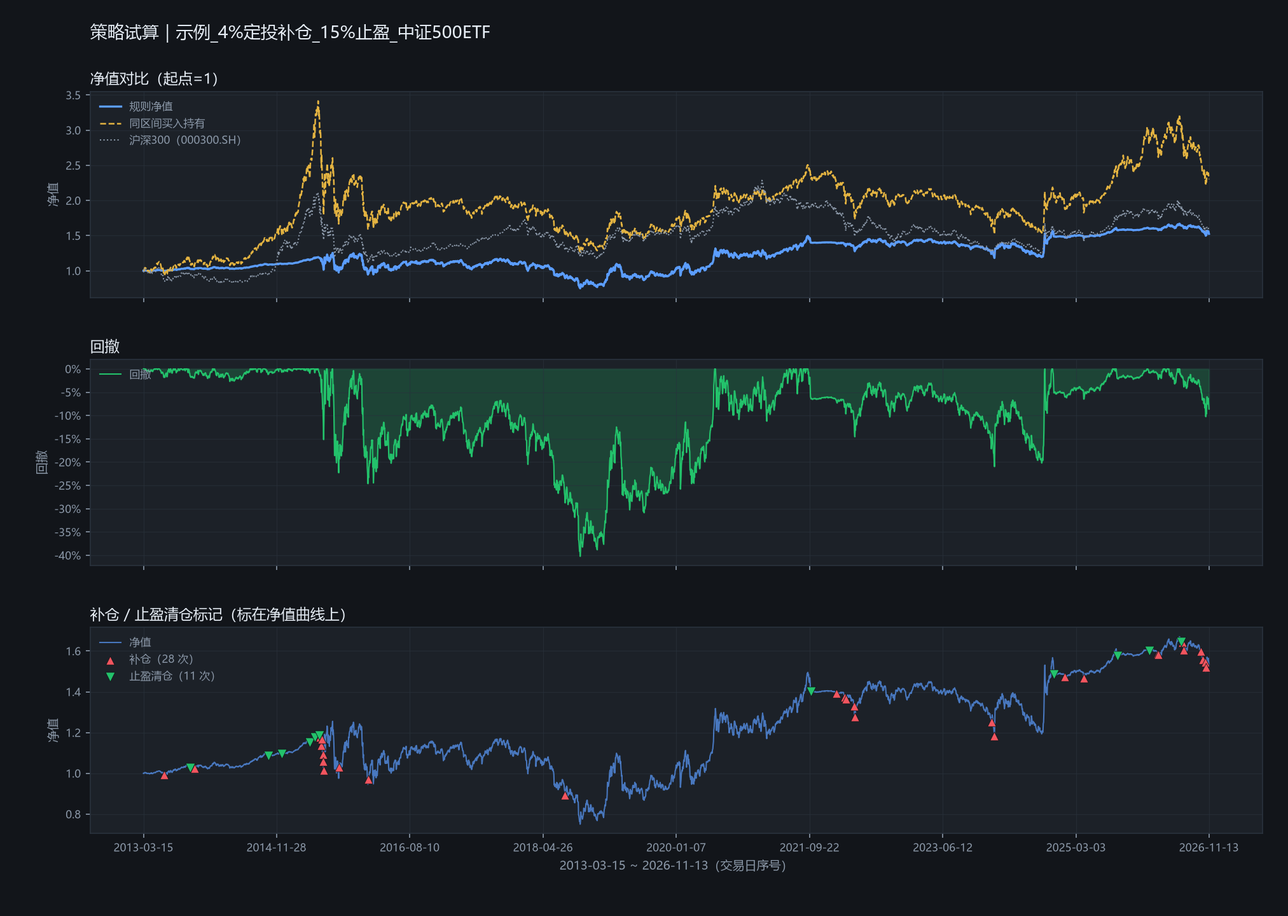
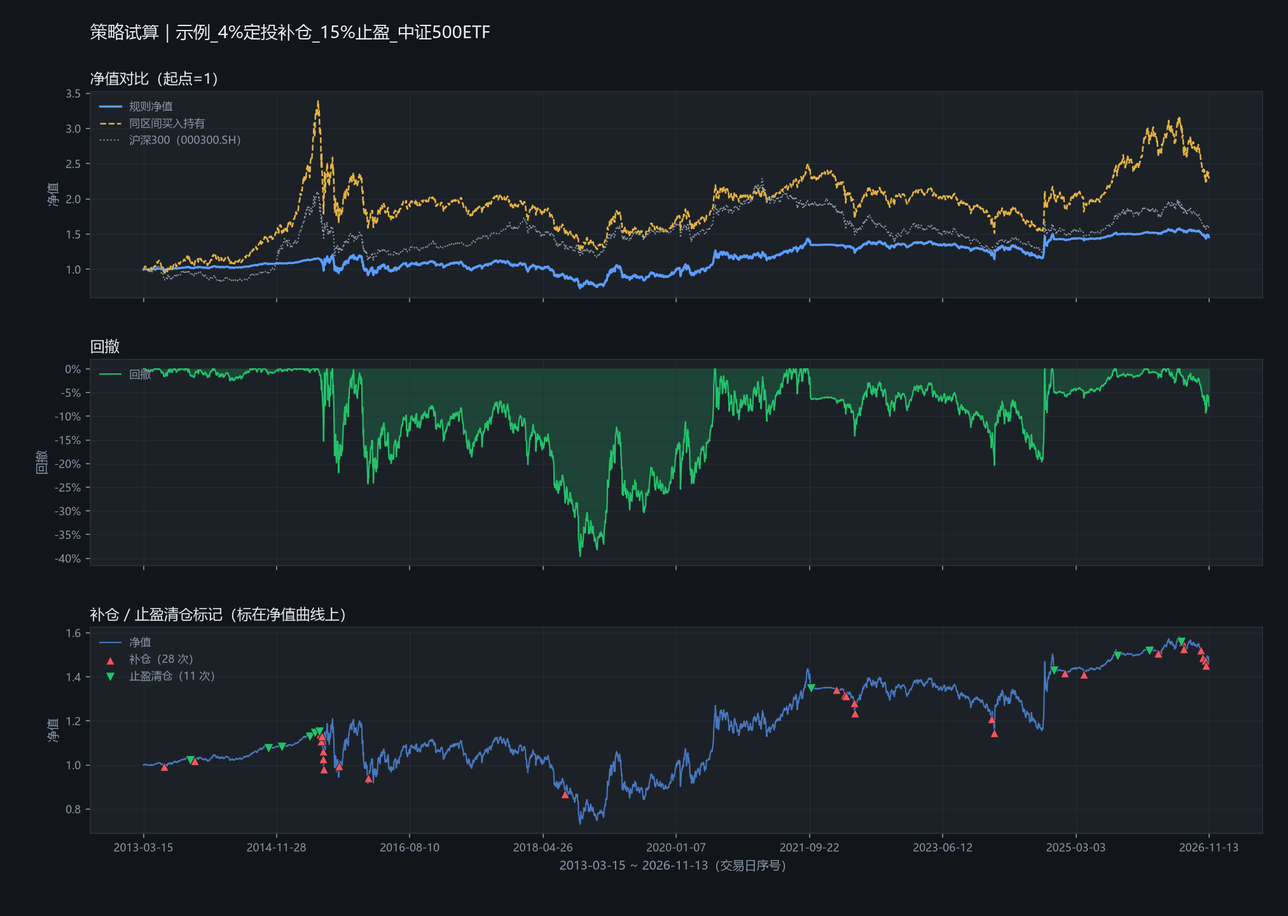
chore(backup): 2026-11-17，同步策略试算四类规则统一前复权口径与基线对比文档 fix(strategy_lab): 2026-11-17，compute 增加 qfq 取数参数并删除后复权旧分支 fix(strategy_lab): 2026-11-17，_normalize 只输出前复权价、四类规则关闭除权账本 docs(strategy_lab): 2026-11-17，补复权口径说明、改前改后基线并排表与 65.6% 基金限制 test(strategy_lab): 2026-11-17，修正成交价与分红覆盖用例并重跑回测图

diff --git a/src/quant/strategy_lab/backtest.py b/src/quant/strategy_lab/backtest.py
@@ -21,7 +21,7 @@ from loguru import logger
 from src.backtest.performance.benchmark_eval import information_ratio
 from src.backtest.performance.performance_analyzer import PerformanceAnalyzer
 from src.backtest.runner import compute, pipeline
-from src.core.usecases.run_backtest import _load_local_dividends, _load_st_status
+from src.core.usecases.run_backtest import _load_st_status
 
 from .coverage import dividend_coverage
 from .panels import FieldPanels
@@ -362,7 +362,7 @@ def _run_stock_select(rule: Dict[str, Any], t0: float) -> Dict[str, Any]:
         'warmup_start': (date.fromisoformat(rule['period']['start'])
                          - timedelta(days=WARMUP_DAYS)).isoformat(),
     }
-    data = compute.load_universe(period, rule['universe'])
+    data = compute.load_universe(period, rule['universe'], adjustment='qfq')
     data, violations = compute.drop_contract_violations(data)
     if not data:
         return _empty('行情为空：契约预筛后没有可用标的', rule)
@@ -386,7 +386,9 @@ def _run_stock_select(rule: Dict[str, Any], t0: float) -> Dict[str, Any]:
 
     schedules = pipeline.build_schedules(path, prev_day,
                                          rule['portfolio']['cash_buffer'])
-    dividends = _load_local_dividends(list(data), None, None)
+    # 统一前复权口径（见 switch_timing._normalize）：行情已是前复权价，分红与送转
+    # 已内含在价格里，再记一遍除权事件等于重复计入，故四类规则一律不传分红账本。
+    dividends = None
     engine_spec = {'_resolved': {'portfolio': rule['portfolio'], 'cost': rule['cost']}}
     result, used, engine_seconds = pipeline.run_engine(
         data, schedules, engine_spec, dividends, st_status)
@@ -416,24 +418,6 @@ def _run_stock_select(rule: Dict[str, Any], t0: float) -> Dict[str, Any]:
     return payload
 
 
-def _engine_dividends(codes: List[str]) -> Dict[str, Any]:
-    """本地分红快照 → 引擎事件；基金分红的表结构不同，缺复权修正列时跳过。
-
-    ``fund_dividend.parquet`` 只有现金分红、没有 ``cash_div_fix`` /
-    ``share_div_fix`` / ``no_ex_rights`` 三列修正；ETF 分红是否纳入复权在
-    ``clean_set`` 里仍是 ``pending_fund_dividend`` 未结论。这里不补任何默认值，
-    缺列即跳过并告警，避免把未修正的基金分红当成个股送转记账。
-    """
-    required = {'cash_div_fix', 'share_div_fix', 'no_ex_rights'}
-    frames = _load_local_dividends(codes, None, None)
-    usable = {code: frame for code, frame in frames.items()
-              if required <= set(frame.columns)}
-    skipped = sorted(set(frames) - set(usable))
-    if skipped:
-        logger.warning('分红快照缺复权修正列，本次不记账除权事件：{}', skipped)
-    return usable
-
-
 def _run_scheduled(rule: Dict[str, Any], t0: float) -> Dict[str, Any]:
     try:
         plan = build_plan(rule)
@@ -446,23 +430,11 @@ def _run_scheduled(rule: Dict[str, Any], t0: float) -> Dict[str, Any]:
               - timedelta(days=WARMUP_DAYS)).isoformat()
     st_status = _load_st_status(None, plan.data, None, warmup,
                                 rule['period']['end'], None, None)
-    dividends = _engine_dividends(list(plan.data))
+    # 统一前复权口径：行情只有前复权价（见 switch_timing._normalize），撮合与盯市
+    # 都在前复权价空间；分红/送转已内含在价格里，不再单独记账除权事件。
+    dividends = None
     engine_spec = {'_resolved': {'portfolio': rule['portfolio'], 'cost': rule['cost']}}
-    # 基金行情里有的腿复权因子恒为 1.0，复权价与原始价逐值相同；成对传进引擎会被
-    # 契约判成「拿未复权价冒充复权价」。这类腿直接去掉 raw_* 对，让 auto 按原始价
-    # 处理（价格本身没有信息损失，也不补任何复权因子）。
-    engine_data: Dict[str, Any] = {}
-    for code, frame in plan.data.items():
-        pair = {'open', 'raw_open', 'close', 'raw_close'}
-        same_as_raw = pair <= set(frame.columns) and \
-            bool((frame['open'] == frame['raw_open']).all()) and \
-            bool((frame['close'] == frame['raw_close']).all())
-        if same_as_raw or rule['rule_type'] == 'dca_grid':
-            # 定投口径整体在复权价空间内成交与盯市：基金行情只有 qfq_factor，
-            # 把原始价交给引擎会让份额折算日（如 510500.SH 2022-08-29）的
-            # 盯市出现跳空，且基金不走 corporate_actions 补偿。
-            frame = frame.drop(['raw_open', 'raw_close'])
-        engine_data[code] = frame
+    engine_data = plan.data
     result, used, engine_seconds = pipeline.run_engine(
         engine_data, plan.schedules, engine_spec, dividends, st_status)
 

diff --git a/src/quant/strategy_lab/switch_timing.py b/src/quant/strategy_lab/switch_timing.py
@@ -59,16 +59,28 @@ def _quote_path(code: str) -> Path:
         f'根目录 {QUOTE_ROOT}）')
 
 
-def _normalize(frame: pl.DataFrame, prefer_qfq: bool = False) -> pl.DataFrame:
-    """复权价 + 原始价成对输出，口径与 ``src/advice/data.py`` 一致。
+def _normalize(frame: pl.DataFrame) -> pl.DataFrame:
+    """前复权价 + 原始价：四类规则统一按前复权价回测（唯一路径）。
 
-    ``prefer_qfq=True`` 时优先用 ``qfq_factor``（前复权）：基金行情只落了
-    ``qfq_factor``，没有 ``hfq_factor``；直接按原始价回测会把 ETF 分红与份额
-    折算整段漏掉（510500.SH 在 2022-08-29 有一次未复权的价格跳空）。
+    复权口径（唯一实现，不另造第二套换算）：
+
+    - 换算：``复权价 = 原始价 × qfq_factor``，与 ``src/advice/data.py`` 的
+      「原始价 × 因子」取数约定一致，从本地行情 parquet 的 ``qfq_factor`` 列取
+      因子；该列缺失时才退回 ``hfq_factor``，两者都没有则整列按 1.0 处理；
+      因子为空值同样按 1.0（不插值、不猜）。
+    - 基准日：前复权因子按「行 t 的因子 = ∏{f_e | 除权日 e > t}」定义
+      （见 ``src/data/adj_factor_calculator.py``），即最新交易日的因子为 1.0、
+      价格不缩放，历史价按其后发生的分红与送转等比下调。因此基准日就是行情里
+      的最后一个交易日，复权序列随数据更新会整体平移，回测内部始终自洽。
+    - 执行口径：只输出前复权价，不再附带 ``raw_open`` / ``raw_close``。撮合与
+      盯市因此落在前复权价空间，除权账本保持关闭（分红/送转已内含在价格里，
+      再记一遍即重复计入）；四类规则共用这一条路径，没有旧分支。
+    - 已知限制：本地约 65.6% 的基金复权因子恒为 1（无分红/折算记录），这类标的
+      走前复权等于没复权，收益仍可能低估；这条限制没有修复，只做如实标注。
     """
     frame = frame.with_columns(pl.col('date').cast(pl.Date, strict=False))
     factor: str | None = None
-    for column in ('hfq_factor',) + (('qfq_factor',) if prefer_qfq else ()):
+    for column in ('qfq_factor', 'hfq_factor'):
         if column in frame.columns:
             factor = column
             break
@@ -85,8 +97,6 @@ def _normalize(frame: pl.DataFrame, prefer_qfq: bool = False) -> pl.DataFrame:
         (pl.col('low') * pl.col('adj_factor')).alias('low'),
         (pl.col('close') * pl.col('adj_factor')).alias('close'),
         pl.col('volume').cast(pl.Float64, strict=False).alias('volume'),
-        pl.col('open').cast(pl.Float64, strict=False).alias('raw_open'),
-        pl.col('close').cast(pl.Float64, strict=False).alias('raw_close'),
     ]
     if 'amount' in frame.columns:
         columns.append(pl.col('amount').cast(pl.Float64, strict=False).alias('amount'))
@@ -95,14 +105,13 @@ def _normalize(frame: pl.DataFrame, prefer_qfq: bool = False) -> pl.DataFrame:
             .sort('date').unique('date', keep='last'))
 
 
-def load_leg(code: str, start: date, end: date,
-             prefer_qfq: bool = False) -> pl.DataFrame:
+def load_leg(code: str, start: date, end: date) -> pl.DataFrame:
     path = _quote_path(code)
     raw = pl.read_parquet(path)
     missing = sorted({'date', 'open', 'high', 'low', 'close', 'volume'} - set(raw.columns))
     if missing:
         raise PlanError(f'标的 {code} 行情缺必需列 {missing}（{path}）')
-    frame = _normalize(raw, prefer_qfq=prefer_qfq).filter(
+    frame = _normalize(raw).filter(
         (pl.col('date') >= start) & (pl.col('date') <= end))
     if frame.height < 2:
         raise PlanError(
@@ -110,10 +119,8 @@ def load_leg(code: str, start: date, end: date,
     return frame
 
 
-def load_legs(codes: Iterable[str], start: date, end: date,
-              prefer_qfq: bool = False) -> Dict[str, pl.DataFrame]:
-    data = {code: load_leg(code, start, end, prefer_qfq=prefer_qfq)
-            for code in dict.fromkeys(codes)}
+def load_legs(codes: Iterable[str], start: date, end: date) -> Dict[str, pl.DataFrame]:
+    data = {code: load_leg(code, start, end) for code in dict.fromkeys(codes)}
     dates = [set(df['date'].to_list()) for df in data.values()]
     common = sorted(set.intersection(*dates))
     if len(common) < 2:
@@ -404,7 +411,7 @@ def build_dca_plan(rule: Dict[str, Any]) -> Plan:
     warmup = start - timedelta(days=WARMUP_DAYS)
     target = rule['target']
     code = target['code']
-    data = load_legs([code], warmup, end, prefer_qfq=True)
+    data = load_legs([code], warmup, end)
     frame = data[code]
     days = frame['date'].to_list()
     closes = [float(c) for c in frame['close'].to_list()]

diff --git a/tests/test_strategy_lab_switch.py b/tests/test_strategy_lab_switch.py
@@ -30,8 +30,8 @@ def _weekdays(count: int) -> list[date]:
 
 
 def _frame(days: list[date], opens: list[float]) -> pl.DataFrame:
-    """hfq_factor=2.0：复权价与原始价不同，引擎契约才接受；
-    引擎成交用 raw_open，因此断言可直接对原始开盘价。"""
+    """hfq_factor=2.0：复权价与原始价不同，验证"成交与盯市都在前复权价空间"；
+    成交价 = 原始开盘价 × 因子（本地无 qfq_factor 时退回 hfq_factor）。"""
     return pl.DataFrame({
         'date': days,
         'open': opens,
@@ -81,17 +81,17 @@ def test_switch_trades_next_open(tmp_path, monkeypatch):
     trades = [{**trade, 'date': pipeline.to_date(trade['date'])}
               for trade in result['trades']]
 
-    # 初始建仓：成交日 = 信号日下一交易日，成交价 = 当日原始开盘价
+    # 初始建仓：成交日 = 信号日下一交易日，成交价 = 当日前复权开盘价（原始价 × 因子）
     first_buy = next(t for t in trades
                      if t['signal'] == 'buy' and t['date'] == days[3])
-    assert first_buy['price'] == pytest.approx(den_open[3])
+    assert first_buy['price'] == pytest.approx(2.0 * den_open[3])
 
-    # 切换建仓：同样落在信号日下一交易日，按当日开盘价成交
+    # 切换建仓：同样落在信号日下一交易日，按当日前复权开盘价成交
     switch_marker = next(m for m in plan.markers if m.get('from') == 'denominator')
     exec_day = date.fromisoformat(switch_marker['date'])
     index = days.index(exec_day)
     switch_buy = next(t for t in trades
                       if t['signal'] == 'buy' and t['date'] == exec_day)
-    assert switch_buy['price'] == pytest.approx(num_open[index])
+    assert switch_buy['price'] == pytest.approx(2.0 * num_open[index])
     # 同日卖出旧腿，证明换仓是 D+1 开盘同时完成
     assert any(t['signal'] == 'sell' and t['date'] == exec_day for t in trades)

diff --git a/src/backtest/runner/compute.py b/src/backtest/runner/compute.py
@@ -49,9 +49,13 @@ def local_stock_codes() -> List[str]:
     return sorted({Path(p).stem for p in files})
 
 
-def load_universe(period: Dict[str, str], universe: Dict[str, Any]
-                  ) -> Dict[str, pl.DataFrame]:
-    """按规格读取后复权行情；``explicit`` 模式只读指定清单。"""
+def load_universe(period: Dict[str, str], universe: Dict[str, Any],
+                  adjustment: str = 'hfq') -> Dict[str, pl.DataFrame]:
+    """按规格读取复权行情；``explicit`` 模式只读指定清单。
+
+    ``adjustment`` 缺省保持 ``'hfq'``（生产口径：后复权 + 原始价对 + 除权账本）；
+    策略试算传 ``'qfq'`` 走统一前复权口径（无 raw_* 对、不记除权账本）。
+    """
     available = set(local_stock_codes())
     mode = universe['mode']
     if mode == 'explicit':
@@ -63,10 +67,11 @@ def load_universe(period: Dict[str, str], universe: Dict[str, Any]
                 f'（清单共 {len(codes)} 只，本地 {len(available)} 只）')
     else:
         codes = sorted(available)
-    logger.info('读取行情：{} 只 / {}~{}（后复权，data_start={}）', len(codes),
-                period['start'], period['end'], period['warmup_start'])
+    basis = '前复权' if adjustment == 'qfq' else '后复权'
+    logger.info('读取行情：{} 只 / {}~{}（{}，data_start={}）', len(codes),
+                period['start'], period['end'], basis, period['warmup_start'])
     batch = DataFetcher(Config(), db_manager=None).get_stock_batch(
-        codes, period['warmup_start'], period['end'], '1d', 'hfq')
+        codes, period['warmup_start'], period['end'], '1d', adjustment)
     data = {c: df for c, df in batch.items() if df is not None and not df.is_empty()}
     empty = sorted(set(codes) - set(data))
     if mode == 'explicit' and empty:

diff --git a/tests/test_strategy_lab_coverage.py b/tests/test_strategy_lab_coverage.py
@@ -149,7 +149,6 @@ def _run_switch(tmp_path, monkeypatch, factors):
         paths[code] = path
     monkeypatch.setattr(switch_timing, '_quote_path', lambda code: paths[code])
     monkeypatch.setattr(backtest, '_load_st_status', lambda *a, **k: {})
-    monkeypatch.setattr(backtest, '_engine_dividends', lambda codes: {})
     monkeypatch.setattr(backtest, 'load_benchmark_close', lambda code: {})
     monkeypatch.setattr(coverage, 'DEFAULT_FACTOR_DIR', factors)
     return backtest.run_rule(_rule(days))

diff --git a/outputs/strategy_lab/4%定投补仓_15%止盈_回测结论_2026-11-17.md b/outputs/strategy_lab/4%定投补仓_15%止盈_回测结论_2026-11-17.md
@@ -16,36 +16,56 @@
 
 ## 二、结果对比
 
+口径：四类规则统一按**前复权价**回测（见第四节），下表为统一口径后的结果。
+
 | 指标 | 510300 规则 | 510300 买入持有 | 510500 规则 | 510500 买入持有 |
 |---|---|---|---|---|
-| 年化收益 | 4.30% | 4.82% | 3.14% | 6.29% |
-| 最大回撤 | 22.5% | 45.2% | 40.2% | 63.2% |
-| Sharpe | 0.431 | 0.333 | 0.273 | 0.374 |
-| 年化成本占净值 | 0.19% | 0.01% | 0.21% | 0.01% |
-| 累计买入金额 | 54,621 元 | 9,888 元 | 52,116 元 | 9,932 元 |
-| 最终市值（含现金） | 18,392 元 | 19,757 元 | 15,257 元 | 23,025 元 |
-| 总收益率（终值/初始 1 万） | 83.9% | 97.6% | 52.6% | 130.2% |
+| 年化收益 | 4.36% | 4.81% | 2.80% | 6.24% |
+| 最大回撤 | 20.6% | 45.2% | 39.6% | 63.0% |
+| Sharpe | 0.444 | 0.332 | 0.255 | 0.373 |
+| 年化成本占净值 | 0.18% | 0.01% | 0.22% | 0.01% |
+| 累计买入金额 | 55,339 元 | 9,857 元 | 45,852 元 | 9,828 元 |
+| 最终市值（含现金） | 18,551 元 | 19,727 元 | 14,579 元 | 22,889 元 |
+| 总收益率（终值/初始 1 万） | 85.5% | 97.3% | 45.8% | 128.9% |
 | 补仓触发次数 | 32 | — | 28 | — |
 | 止盈清仓次数 | 10 | — | 11 | — |
 | 建仓次数（首次 + 重启） | 11 | 1 | 12 | 1 |
-| 平均持仓成本（复权价口径） | 3.8466 | — | 1.8815 | — |
-| 资金闲置比例（现金/权益 日均） | 51.7% | —（首日后满仓） | 40.4% | —（首日后满仓） |
-| 成交笔数 | 53 | 1 | 50 | 1 |
+| 平均持仓成本（前复权价口径） | 3.0240 | — | 5.5243 | — |
+| 资金闲置比例（现金/权益 日均） | 52.0% | —（首日后满仓） | 42.4% | —（首日后满仓） |
+| 成交笔数 | 52 | 1 | 51 | 1 |
 | 沪深300 基准年化 | 3.01% | 3.01% | 3.41% | 3.41% |
 
 图：[4%定投补仓_15%止盈_回测图_2026-11-17.png](4%定投补仓_15%止盈_回测图_2026-11-17.png)、[4%定投补仓_15%止盈_中证500ETF_回测图_2026-11-17.png](4%定投补仓_15%止盈_中证500ETF_回测图_2026-11-17.png)（三面板：净值对比 / 回撤 / 补仓▲与清仓▼标记，配色与试算页三图同一套深色主题）。
 
+### 口径统一前 / 后并排（同一规则 JSON、同一区间、同一成本）
+
+| 规则 | 年化（改前→改后） | 最大回撤（改前→改后） | Sharpe（改前→改后） |
+|---|---|---|---|
+| 示例_低估值低波月频 | 6.43% → 6.35% | 26.9% → 26.9% | 0.469 → 0.464 |
+| 示例_强弱比双ETF切换 | −0.03% → 1.47% | 58.8% → 56.6% | 0.118 → 0.182 |
+| 示例_4%定投补仓_15%止盈（510300） | 4.30% → 4.36% | 22.5% → 20.6% | 0.431 → 0.444 |
+| 示例_4%定投补仓_15%止盈_中证500ETF | 3.14% → 2.80% | 40.2% → 39.6% | 0.273 → 0.255 |
+
+「改前」= 后复权价做信号 + 原始价撮合 + 除权账本（定投一条腿此前已特例走前复权）；「改后」= 四类规则统一前复权价撮合与盯市、关闭除权账本。
+
+- **低估值低波月频（−0.08pp）**：前复权与后复权只差一个常数倍数，收益率序列完全一致，选股结果不变；差异来自执行价空间切换后整手取整的股数变化（成交 6,140 → 6,244 笔），属取整噪声，不改变结论。
+- **强弱比双ETF切换（+1.50pp）**：差异主体是分红计入。510300 是分红的、588000 的复权因子恒为 1，改前用原始价撮合等于把 510300 的分红从价格里扣掉却未计入收益，年化被系统性低估。其次是比值口径：`前复权比值 / 原始比值` 由 2021-01 的 0.8929 漂移到最新 2026-11 的 1.0000，由于阈值是「相对 30 日滚动中枢 ±3%」，水平漂移基本被抵消——1,422 个共同交易日里只有 8 天信号不同，切换次数改前改后都是 35 次，只是时点略移。**比值型规则的结论方向不变**（仍大幅跑输基准、最大回撤 >56%），但「比值中枢」的绝对水平在前复权口径下不可与原始价比值直接对照，跨口径比较必须重跑。
+- **定投 510300（+0.06pp / 回撤 −1.9pp）**：分红计入收益，同时清仓与补仓的成交价改在前复权空间。
+- **定投 510500（−0.34pp）**：510500 的前复权历史价明显低于原始价，每份 1000 元买到的股数经 100 股整手取整后发生变化，交易序列与改前不完全相同；回撤反而小幅改善（40.2% → 39.6%），方向性结论不变。
+
 ## 三、结论
 
-1. **这套规则买到的是「回撤」，不是「收益」。** 沪深300ETF 上最大回撤从 45.2% 压到 22.5%（降 22.7 个百分点），Sharpe 0.333→0.431，但年化 4.82%→4.30%，终值 19,757→18,392 元，跑输同区间买入持有。原因是 51.7% 的交易日处于半仓以下，闲置资金按 0 收益记账，拉低了年化。
+1. **这套规则买到的是「回撤」，不是「收益」。** 沪深300ETF 上最大回撤从 45.2% 压到 20.6%（降 24.6 个百分点），Sharpe 0.332→0.444，但年化 4.81%→4.36%，终值 19,727→18,551 元，跑输同区间买入持有。原因是 52.0% 的交易日处于半仓以下，闲置资金按 0 收益记账，拉低了年化。
 2. **14.5 年只触发 10 次止盈清仓，规则偏「低频」。** 沪深300 上补仓 32 次、清仓 10 次，平均 1.4 年一个完整循环；单边上涨段（2014-11~2015-06、2024-09 之后）净值曲线明显被闲置现金拖平，是跑输买入持有的主要时段。
-3. **中证500 上规则失效更明显。** 年化 3.14% vs 买入持有 6.29%，Sharpe 0.273 vs 0.374，最大回撤只从 63.2% 降到 40.2%。高波动品种上「跌 4% 补一份」很快打满 10 份，满仓后又完整承受下跌；止盈 15%/回撤 4% 在高波动下频繁被噪声打掉。
+3. **中证500 上规则失效更明显。** 年化 2.80% vs 买入持有 6.24%，Sharpe 0.255 vs 0.373，最大回撤只从 63.0% 降到 39.6%。高波动品种上「跌 4% 补一份」很快打满 10 份，满仓后又完整承受下跌；止盈 15%/回撤 4% 在高波动下频繁被噪声打掉。
 4. **适用判断：** 该规则适合低波动的宽基（沪深300 这类），目标是「同等收益下更小回撤 / 更好的 Sharpe」，不应当作提高收益的手段；中证500 这类高波动品种需要放宽补仓跌幅或减少份数，否则容易过早满仓。
 
 ## 四、口径与注意事项
 
-- **「份」的金额是当期资金的 1/10，不是永久固定 1000 元。** 每份按「剩余现金 ÷ 剩余份数」买入；止盈清仓后资金重新等分（含前期盈利），因此 43 次买入累计 54,621 元 > 初始 1 万元，单份金额随权益增长而变大（复利再投）。
-- **收益率与平均成本按复权价口径。** 持仓收益率 = 收盘 / 平均成本 − 1，平均成本按各份买入价以等额现金加权（买入价的调和平均）。基金行情只落了 `qfq_factor`，定投类规则整段在前复权价空间成交与盯市（ETF 分红视同再投资），因此表里的「平均持仓成本」不等于当时的实际成交价；其它三类规则仍走原始价 + 分红账本口径。510500.SH 若用原始价，2022-08-29 份额折算日会出现未复权跳空（实测最大单日跳空 > 12%），故必须用复权价。
+- **「份」的金额是当期资金的 1/10，不是永久固定 1000 元。** 每份按「剩余现金 ÷ 剩余份数」买入；止盈清仓后资金重新等分（含前期盈利），因此 42 次买入累计 55,339 元 > 初始 1 万元，单份金额随权益增长而变大（复利再投）。
+- **四类规则统一按前复权价回测（唯一路径）。** 换算只有一处实现：`复权价 = 原始价 × qfq_factor`（见 [switch_timing.py](../../src/quant/strategy_lab/switch_timing.py) 的 `_normalize`；个股侧 `compute.load_universe(..., adjustment='qfq')` 走同一份因子）。因子优先取本地行情 `qfq_factor`，缺失退回 `hfq_factor`，都没有或为空按 1.0（不插值、不猜）；因子定义 `行 t 的因子 = ∏{f_e | 除权日 e > t}`（`src/data/adj_factor_calculator.py`），因此**基准日 = 行情最后一个交易日**（该日因子 1.0、价格不缩放），历史价按其后分红与送转等比下调。撮合与盯市都在前复权价空间，除权账本一律关闭（分红/送转已内含在价格里，再记一遍即重复计入）。持仓收益率 = 收盘 / 平均成本 − 1，故表里的「平均持仓成本」不等于当时实际成交价。510500.SH 的 2022-08-29 份额折算日只有在复权价空间才不出现跳空。
+- **已知限制（未修复）：本地约 65.6% 的基金复权因子恒为 1。** 这些标的即便走前复权也等于没复权（如 588000.SH），分红仍不进收益，年化可能被低估；这条限制只做如实标注，不要当成已修复。
+- **比值型规则要跨口径重跑。** `asset_switch` 的比值与中枢按前复权价比值计算：两腿分红节奏不同时，比值会被各自的因子缩放（实测 510300/588000 的前复权比值/原始比值从 0.8929 漂到 1.0）。阈值是「相对滚动中枢」，水平漂移大部分被抵消，但信号时点会变，不能拿原始价比值下的旧结论直接套用。
 - **止盈清仓后空仓一天。** 清仓在 T+1 开盘成交，重启的 1 份在次日收盘出信号、再下一交易日开盘买入，比「当日卖出当日买回」多空仓一天，属规则实现的保守取法。
 - **参考价用实际成交价。** 补仓判定用的是「最近一次买入的成交价（信号日次一交易日开盘）」，不是信号日收盘，避免用未来价格。
 - **闲置资金按 0 收益计。** 未计货币基金/逆回购收益；若把闲置资金按 2%/年计息，规则的年化会抬升约 1 个百分点，结论 1 的量级不变。

diff --git a/docs/策略试算使用说明.md b/docs/策略试算使用说明.md
@@ -15,10 +15,27 @@
 | `stock_select` | 选股 | 全市场条件链 → 排序 → 取前 N，月频调仓 | `示例_低估值低波月频.json` |
 | `asset_switch` | 强弱比切换 | 两条标的按比值中枢切换，全仓单腿 | `示例_强弱比双ETF切换.json` |
 | `timing` | 仓位择时 | 单标的/组合按信号档位调仓，带滞回 | 暂无示例 |
+| `dca_grid` | 定投补仓 | 单标的按跌幅分份补仓 + 止盈回撤清仓 | `示例_4%定投补仓_15%止盈.json` |
 
 所有规则共用：`rule_version`（固定 `strategy_lab/v1`）、`rule_type`、`name`（1~40 字，
 不能含 `\/:*?"<>|`）、`period`；`benchmark`（默认沪深300）、`cost`、`portfolio`、
 `description`、`data_policy` 可选，缺省取内置默认。出现未开放字段即报错，不静默忽略。
+
+### 复权口径（四类规则统一，唯一路径）
+
+- **换算**：`复权价 = 原始价 × qfq_factor`，只有一处实现——`src/quant/strategy_lab/switch_timing.py`
+  的 `_normalize()`；选股侧 `src/backtest/runner/compute.py` 的 `load_universe(..., adjustment='qfq')`
+  读的是同一份因子。因子优先取本地行情 `qfq_factor`，该列缺失才退回 `hfq_factor`，
+  两者都没有则按 1.0；因子为空值同样按 1.0（不插值、不猜、不造第二套换算）。
+- **基准日**：前复权因子定义为「行 t 的因子 = ∏{f_e | 除权日 e > t}」（见
+  `src/data/adj_factor_calculator.py`），即**行情最后一个交易日**为基准日、该日因子 1.0、
+  价格不缩放；历史价按其后发生的分红与送转等比下调。数据更新后整段序列会整体平移，
+  但回测内部的收益率与比值始终自洽。
+- **执行**：信号、撮合、盯市都在前复权价空间，行情不再携带 `raw_open` / `raw_close`，
+  除权账本一律不传（分红与送转已内含在价格里，再记一遍即重复计入）。
+- **已知限制（未修复）**：本地约 65.6% 的基金复权因子恒为 1，这类标的走前复权等于没复权，
+  分红不进收益，年化仍可能低估；只做如实标注。
+
 
 ## 二、stock_select：字段与条件
 
@@ -34,14 +51,14 @@ PIT 口径三种：
 
 | 类别 | 字段 | PIT 口径 | 单位 | 来源 |
 |---|---|---|---|---|
-| 行情 | 收盘价（后复权）`close` | bar | 元 | quotes/stock/** |
+| 行情 | 收盘价（前复权）`close` | bar | 元 | quotes/stock/** × qfq_factor |
 | 行情 | 当日涨跌幅 `pct_chg` | bar | % | quotes/stock/** |
 | 行情 | 成交量 `volume` | bar | 手 | quotes/stock/** |
 | 行情 | 成交额 `amount` | bar | 元 | quotes/stock/** |
-| 行情 | 20日波动率 `vol_20` | bar | 日收益标准差 | 后复权收盘派生 |
-| 行情 | 60日波动率 `vol_60` | bar | 日收益标准差 | 后复权收盘派生 |
-| 行情 | 20日动量 `mom_20` | bar | 小数 | 后复权收盘派生 |
-| 行情 | 60日动量 `mom_60` | bar | 小数 | 后复权收盘派生 |
+| 行情 | 20日波动率 `vol_20` | bar | 日收益标准差 | 前复权收盘派生 |
+| 行情 | 60日波动率 `vol_60` | bar | 日收益标准差 | 前复权收盘派生 |
+| 行情 | 20日动量 `mom_20` | bar | 小数 | 前复权收盘派生 |
+| 行情 | 60日动量 `mom_60` | bar | 小数 | 前复权收盘派生 |
 | 估值 | PE `pe` / PB `pb` / PS `ps` | asof_trade_date | 倍 | valuation_daily.parquet |
 | 估值 | 股息率 `dv_ratio` | asof_trade_date | % | valuation_daily.parquet |
 | 估值 | 总市值 `total_mv` / 流通市值 `circ_mv` | asof_trade_date | 万元 | valuation_daily.parquet |
@@ -154,8 +171,7 @@ PIT 口径三种：
 6. `asset_switch` / `timing` 的本地行情只查 `data/local_store/quotes/fund` 与 `index`，
    股票代码（`quotes/stock`）不参与切换/择时；行情缺列或共同交易日不足会明确报错。
 7. ETF/基金分红在本地 `fund_dividend.parquet` 里没有 `cash_div_fix` / `share_div_fix` /
-   `no_ex_rights` 修正列，且 `clean_set` 仍以 `pending_fund_dividend` 标记未结论；
-   切换/择时回测遇到这类分红帧会跳过除权事件并打警告，不补默认值。ETF 分红计入收益
-   需等基金分红复权口径定案后另行接线。基金行情中复权因子恒为 1.0 的腿，复权价与
-   原始价逐值相同，执行层会去掉该腿的 `raw_*` 列后交给引擎（`auto` 视为原始价输入）；
-   有复权因子的腿仍用复权价做信号、原始价做撮合。
+   `no_ex_rights` 修正列，且 `clean_set` 仍以 `pending_fund_dividend` 标记未结论。
+   四类规则统一走前复权价后不再读除权账本，收益靠 `qfq_factor` 体现；但本地约 65.6%
+   的基金复权因子恒为 1（如 588000.SH），这些标的等于没复权，分红仍不进收益，年化可能
+   低估——该限制未修复，不能视为已解决。
